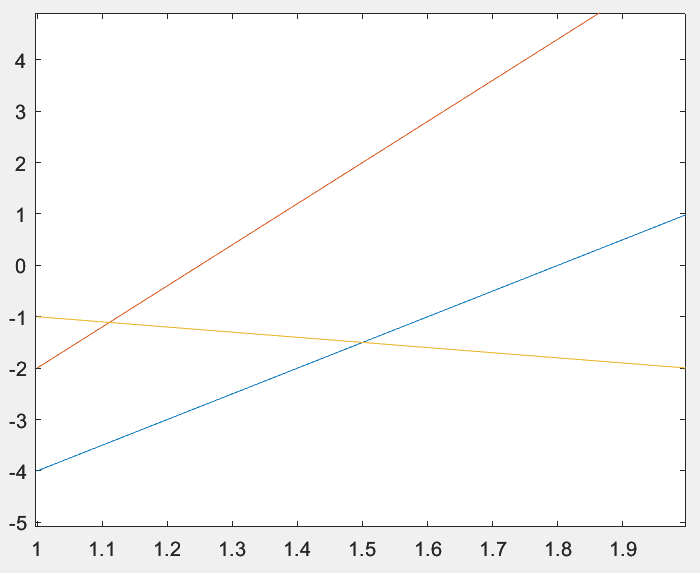
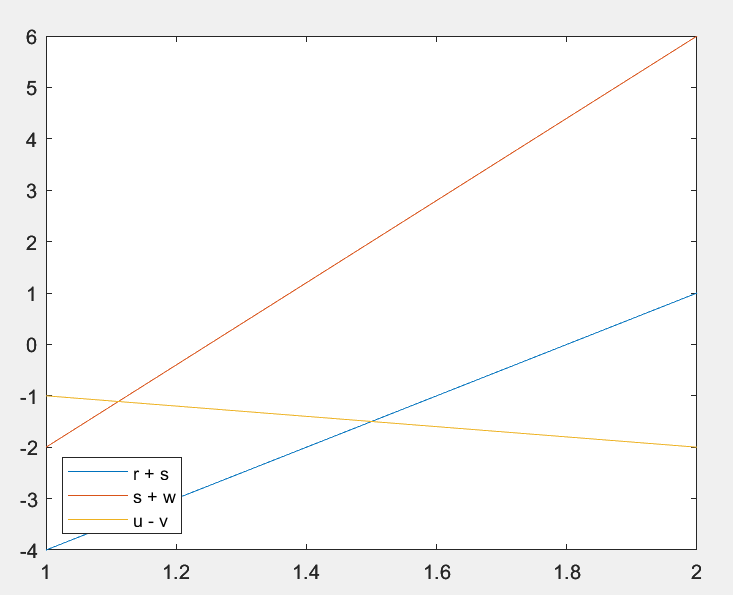
Labeling Graphs

diff --git a/Program 1/obach_p4_script.m b/Program 1/obach_p4_script.m
@@ -13,6 +13,7 @@ M = [-1 -3  2  3  1;
      -2  3 -1  1  3];
 
 plot(M);
+legend({'r','s','u','v','w'},'Location','southwest')
 
 rs = 0;
 uv = 0;

diff --git a/Program 1/obach_p5_script.m b/Program 1/obach_p5_script.m
@@ -29,3 +29,4 @@ M = [-4 -2 -1 ;
       1  6 -2];
 
 plot(M);
+legend({'r + s','s + w','u - v'},'Location','southwest')
